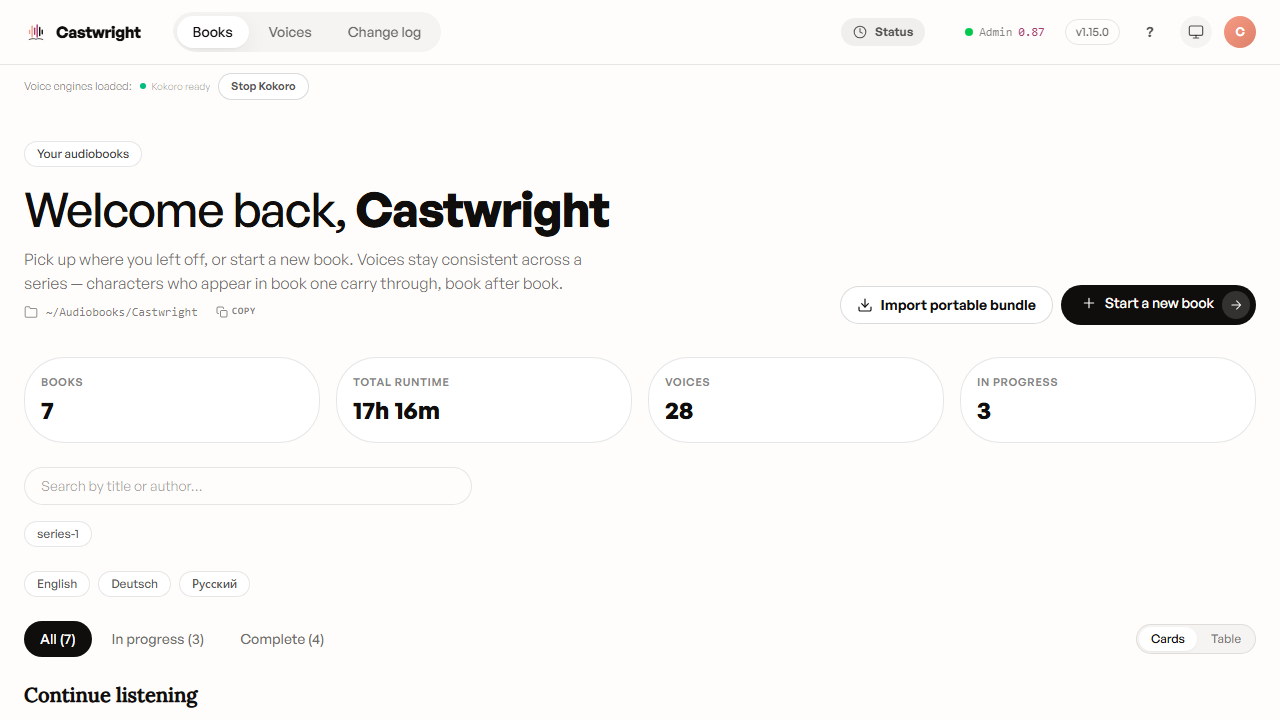
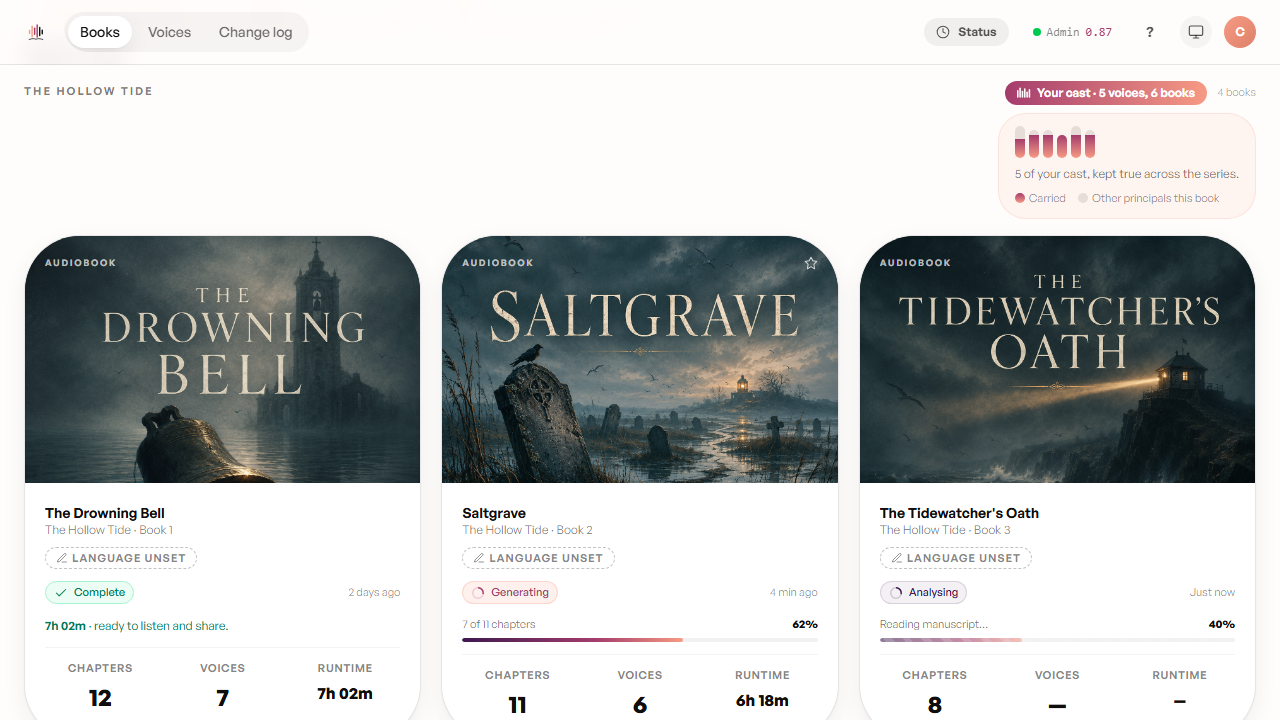
fix(frontend): scroll the library-covers wiki shot so cards show (#4864)

diff --git a/e2e/marketing/scenes.ts b/e2e/marketing/scenes.ts
@@ -91,6 +91,16 @@ export const SCENES: Scene[] = [
     waitFor: '[data-testid="book-cover-hollow-tide-1"]',
   },
   {
+    /* Wiki Library-Management "cards view" shot: the "Voice engines loaded"
+       ribbon + stats + filters push the card grid below a 720px fold, so the
+       plain library-shelf frame shows no cards. Scroll the grid into frame. */
+    id: 'library-covers',
+    hash: '#/',
+    viewports: ['desktop'],
+    waitFor: '[data-testid="book-cover-hollow-tide-1"]',
+    scrollTo: '[data-testid="book-cover-hollow-tide-1"]',
+  },
+  {
     id: 'analysing',
     hash: '#/books/hollow-tide-3/analysing',
     viewports: ['desktop', 'phone', 'tablet'],
